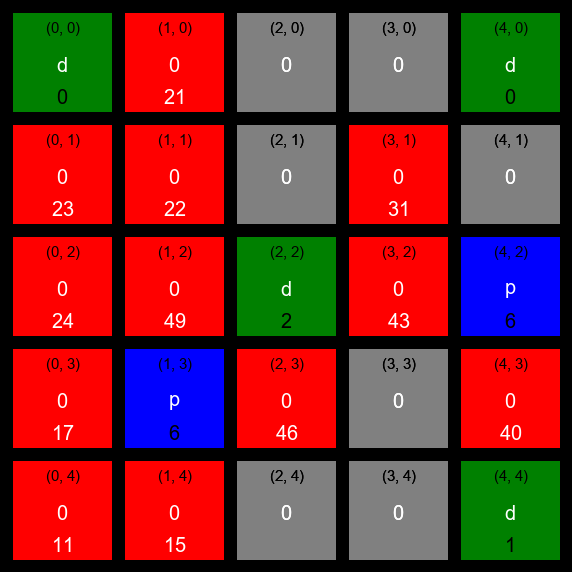
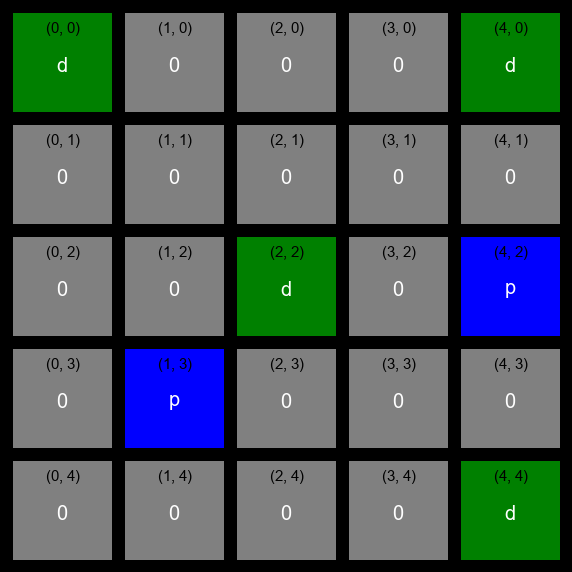
creating q table

diff --git a/main.py b/main.py
@@ -13,7 +13,7 @@ global has_block
 global world
 
 x = 0
-y = 4
+y = 0
 drop_off_loc = [(0, 0), (4, 0), (2, 2), (4, 4)]
 pick_up_loc = [(1, 3), (4, 2)]
 has_block = False
@@ -94,7 +94,32 @@ def applyAction(action):
             time.sleep(1)
         has_block = True
 
-    
+def actionNumber(action):
+    n = 0
+    if action == 'north':
+        n = 0
+    elif action == 'south':
+        n = 1
+    elif action == 'west':
+        n = 2
+    elif action == 'east':
+        n = 3
+    elif action == 'p':
+        n = 4
+    elif action == 'd':
+        n = 5
+    return n
+
+def updateQTable(q_table, world, x, y, reward, alpha, gamma, action, app_op):
+    q_values_future_state = []
+    i = 0
+    for a in app_op:
+        i = actionNumber(a)
+        q_values_future_state.append(q_table[world[(x, y)][a]][i])
+    n = actionNumber(action)
+    q_table[x, y][n] = (1 - alpha)*q_table[x, y][n] + alpha*(reward + gamma*max(q_values_future_state))
+
+
 def main():
     global x
     global y
@@ -125,8 +150,18 @@ def main():
             world_vl.write_block(world[(c, r)]['coor'], world[(c, r)]['action'], 'white')
             world_vl.write_block(world[(c, r)]['coor'], str(world[(c, r)]['coor']), 'black', 'n', 15)
 
-    q_table = np.zeros((w, h, 6))
+    q_size = w*h*2
+    q_table = np.zeros((q_size, 6))
+    # q_table = np.zeros((w*2, h, 6))
     action = ['n', 's', 'w', 'e', 'p', 'd']
+
+    q_table[(x,y), :] = 1
+    q_table[x+1, 2] = 2
+    q_table[(x+2), 3] = 3
+    print(q_table)
+    return
+
+
 
     world_vl.fill_block(world[(x, y)]['coor'], 'yellow')
     world_vl.write_block(world[(x, y)]['coor'], 'start', 'black')
@@ -154,6 +189,8 @@ def main():
         next_x, next_y = getNextCoords(action)
 
         # update qtable
+
+        
 
         x = next_x
         y = next_y
